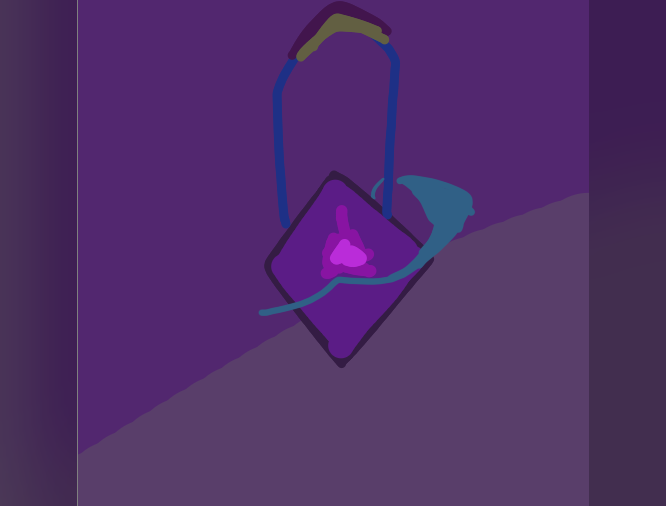
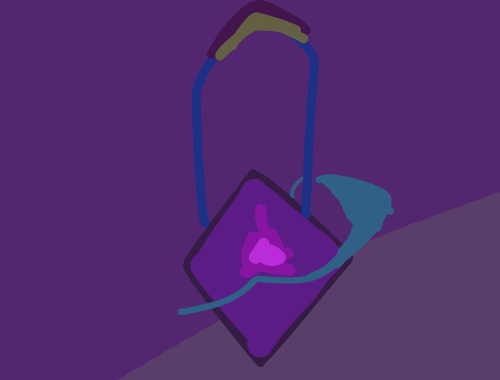
hina

diff --git a/NecroRework/src/Reworks.cs b/NecroRework/src/Reworks.cs
@@ -4,6 +4,7 @@ using MegaCrit.Sts2.Core.Combat.History.Entries;
 using MegaCrit.Sts2.Core.Commands;
 using MegaCrit.Sts2.Core.Entities.Cards;
 using MegaCrit.Sts2.Core.Entities.Creatures;
+using MegaCrit.Sts2.Core.Factories;
 using MegaCrit.Sts2.Core.GameActions.Multiplayer;
 using MegaCrit.Sts2.Core.Localization;
 using MegaCrit.Sts2.Core.Localization.DynamicVars;
@@ -124,6 +125,9 @@ internal static class Reworks
         // 钙化：奥斯提攻击加成 4（升级 6）→ 3（升级 5）；
         //       并额外记录「每次攻击给你 2（升级 3）格挡」
         [typeof(Calcify)] = _ => [new PowerVar<CalcifyPower>(3m), new BlockVar(2m, ValueProp.Unpowered)],
+
+        // 洁净：召唤 3（升级 5）→ 改成「移除 6（升级 9）层灾厄」，数值用灾厄变量显示
+        [typeof(Cleanse)] = _ => [new PowerVar<DoomPower>(6m)],
     };
 
     /// <summary>
@@ -437,6 +441,82 @@ internal static class Reworks
 
             CalcifyGuard.Add(card.Owner.Creature, card.DynamicVars.Block.BaseValue);
         },
+
+        // 洁净：移除最多 6（升级 9）层灾厄（先扣骨妹、不够再扣奥斯提），
+        //       按实际移除掉的层数获得等量格挡；之后照旧从抽牌堆消耗一张牌。
+        [typeof(Cleanse)] = async (card, ctx, play) =>
+        {
+            int budget = (int)card.DynamicVars.Doom.BaseValue;
+            int removed = 0;
+
+            int fromSelf = Math.Min(DoomUtil.PlayerDoom(card), budget);
+            if (fromSelf > 0)
+            {
+                await DoomUtil.RemoveDoom(ctx, card, card.Owner.Creature, fromSelf);
+                removed += fromSelf;
+            }
+
+            if (removed < budget && card.Owner.Osty is { IsAlive: true } osty)
+            {
+                int fromOsty = Math.Min(DoomUtil.DoomOf(osty), budget - removed);
+                if (fromOsty > 0)
+                {
+                    await DoomUtil.RemoveDoom(ctx, card, osty, fromOsty);
+                    removed += fromOsty;
+                }
+            }
+
+            if (removed > 0)
+            {
+                await CreatureCmd.GainBlock(card.Owner.Creature, removed, ValueProp.Move, play);
+            }
+
+            CardModel? picked = (await CardSelectCmd.FromCombatPile(ctx, PileType.Draw.GetPile(card.Owner), card.Owner,
+                new CardSelectorPrefs(CardSelectorPrefs.ExhaustSelectionPrompt, 1))).FirstOrDefault();
+            if (picked != null)
+            {
+                await CardCmd.Exhaust(ctx, picked);
+            }
+        },
+
+        // 虚空之唤：先照旧挂上「回合开始加牌」的能力，再从卡池里随机展示 3 张
+        // 「升级前就带虚无」的牌，选中一张置入手牌。
+        [typeof(CallOfTheVoid)] = async (card, ctx, play) =>
+        {
+            await CreatureCmd.TriggerAnim(card.Owner.Creature, "PowerUp", card.Owner.Character.PowerUpAnimDelay);
+            await PowerCmd.Apply<CallOfTheVoidPower>(ctx, card.Owner.Creature,
+                card.DynamicVars.Cards.BaseValue, card.Owner.Creature, card);
+
+            List<CardModel> ethereal = card.Owner.Character.CardPool
+                .GetUnlockedCards(card.Owner.UnlockState, card.Owner.RunState.CardMultiplayerConstraint)
+                .Where(c => c.CanonicalKeywords.Contains(CardKeyword.Ethereal))
+                .ToList();
+
+            if (ethereal.Count == 0)
+            {
+                Main.Log.Info($"[{Main.ModId}] 虚空之唤：卡池里没有虚无牌，跳过选择");
+                return;
+            }
+
+            // 按原版 Quasar/Discovery 的写法：GetDistinctForCombat 负责建牌、设 Owner、去重，
+            // 直接 ToMutable() 拿到的牌没有 Owner，选择界面会空着，玩家看不到任何选项。
+            List<CardModel> offered = CardFactory
+                .GetDistinctForCombat(card.Owner, ethereal, 3, card.Owner.RunState.Rng.CombatCardGeneration)
+                .ToList();
+
+            if (offered.Count == 0)
+            {
+                Main.Log.Info($"[{Main.ModId}] 虚空之唤：抽不出可展示的虚无牌（候选 {ethereal.Count} 张），跳过选择");
+                return;
+            }
+
+            CardModel? chosen = offered.Count == 1
+                ? offered[0]
+                : await CardSelectCmd.FromChooseACardScreen(ctx, offered, card.Owner, canSkip: true);
+            if (chosen == null) return;
+
+            CardCmd.PreviewCardPileAdd(await CardPileCmd.AddGeneratedCardToCombat(chosen, PileType.Hand, card.Owner));
+        },
     };
 
     /// <summary>
@@ -500,6 +580,9 @@ internal static class Reworks
             card.DynamicVars["CalcifyPower"].UpgradeValueBy(2m);
             card.DynamicVars.Block.UpgradeValueBy(1m);
         },
+
+        // 洁净：原版是召唤 3 → 5，现在改成灾厄 6 → 9
+        [typeof(Cleanse)] = card => card.DynamicVars.Doom.UpgradeValueBy(3m),
     };
 
     /// <summary>
@@ -533,5 +616,8 @@ internal static class Reworks
     {
         // 增生：已经没有召唤了，原版的「召唤」悬停提示要去掉
         [typeof(Spur)] = _ => [],
+
+        // 洁净：召唤改成移除灾厄，原版「召唤」悬停提示要去掉，只留「消耗」提示
+        [typeof(Cleanse)] = _ => [HoverTipFactory.FromKeyword(CardKeyword.Exhaust)],
     };
 }

diff --git a/NecroRework/src/PowerIcons.cs b/NecroRework/src/PowerIcons.cs
@@ -16,9 +16,12 @@ namespace NecroRework;
 internal static class PowerIcons
 {
     private const string DieForYouIconFile = "die_for_you_icon.png";
+    private const string DeathRhythmIconFile = "death_rhythm.png";
 
     private static Texture2D? _dieForYouIcon;
     private static bool _dieForYouIconTried;
+    private static Texture2D? _deathRhythmIcon;
+    private static bool _deathRhythmIconTried;
 
     public static void Install(Harmony harmony)
     {
@@ -98,51 +101,76 @@ internal static class PowerIcons
 
     public static void IconPostfix(object __instance, ref Texture2D __result)
     {
-        if (__instance is not DieForYouPower) return;
-
-        var icon = LoadDieForYouIcon();
-        if (icon != null)
-            __result = icon;
+        switch (__instance)
+        {
+            case DieForYouPower:
+            {
+                var icon = LoadDieForYouIcon();
+                if (icon != null) __result = icon;
+                break;
+            }
+            case DeathRhythmPower:
+            {
+                var icon = LoadCustomIcon(DeathRhythmIconFile, ref _deathRhythmIcon, ref _deathRhythmIconTried, "死亡律动");
+                if (icon != null) __result = icon;
+                break;
+            }
+        }
     }
 
     public static void BigIconPostfix(object __instance, ref Texture2D __result)
     {
-        if (__instance is not DieForYouPower) return;
-
-        var icon = LoadDieForYouIcon();
-        if (icon != null)
-            __result = icon;
+        switch (__instance)
+        {
+            case DieForYouPower:
+            {
+                var icon = LoadDieForYouIcon();
+                if (icon != null) __result = icon;
+                break;
+            }
+            case DeathRhythmPower:
+            {
+                var icon = LoadCustomIcon(DeathRhythmIconFile, ref _deathRhythmIcon, ref _deathRhythmIconTried, "死亡律动");
+                if (icon != null) __result = icon;
+                break;
+            }
+        }
     }
 
     /// <summary>懒加载 mod 目录下的自定义图标；读不到就沿用原版图标。</summary>
     private static Texture2D? LoadDieForYouIcon()
     {
-        if (_dieForYouIconTried) return _dieForYouIcon;
-        _dieForYouIconTried = true;
+        return LoadCustomIcon(DieForYouIconFile, ref _dieForYouIcon, ref _dieForYouIconTried, "为你而死");
+    }
+
+    private static Texture2D? LoadCustomIcon(string fileName, ref Texture2D? cache, ref bool tried, string what)
+    {
+        if (tried) return cache;
+        tried = true;
 
         try
         {
-            var path = Path.Combine(Main.ModDirectory, DieForYouIconFile);
+            var path = Path.Combine(Main.ModDirectory, fileName);
             if (!File.Exists(path))
             {
-                Main.Log.Warn($"[{Main.ModId}] 找不到 {path}，为你而死继续用原版图标");
+                Main.Log.Warn($"[{Main.ModId}] 找不到 {path}，{what}继续用原版图标");
                 return null;
             }
 
             var image = Image.LoadFromFile(path);
             if (image == null)
             {
-                Main.Log.Warn($"[{Main.ModId}] 读取 {path} 失败，为你而死继续用原版图标");
+                Main.Log.Warn($"[{Main.ModId}] 读取 {path} 失败，{what}继续用原版图标");
                 return null;
             }
 
-            _dieForYouIcon = ImageTexture.CreateFromImage(image);
+            cache = ImageTexture.CreateFromImage(image);
         }
         catch (Exception e)
         {
-            Main.Log.Error($"[{Main.ModId}] 加载为你而死图标失败: {e}");
+            Main.Log.Error($"[{Main.ModId}] 加载{what}图标失败: {e}");
         }
 
-        return _dieForYouIcon;
+        return cache;
     }
 }

diff --git a/NecroRework/src/Stats/OstyHpGainTracker.cs b/NecroRework/src/Stats/OstyHpGainTracker.cs
@@ -37,16 +37,30 @@ internal static class OstyHpGainTracker
             prefix: new HarmonyMethod(typeof(OstyHpGainTracker), nameof(HealPrefix)),
             postfix: new HarmonyMethod(typeof(OstyHpGainTracker), nameof(HealPostfix)));
 
-        var turnStart = AccessTools.Method(typeof(Hook), "AfterPlayerTurnStart");
+        // 注意：清零必须发生在「回合开始的各种遗物效果之前」。
+        // 起始遗物「不灭命匣」（PhylacteryUnbound）在 Hook.AfterSideTurnStart 里自动召唤，
+        // 而那个钩子早于 Hook.AfterPlayerTurnStart —— 所以旧写法（挂在 AfterPlayerTurnStart 清零）
+        // 会把遗物刚加的那几点血一起抹掉，增生就吃不到它。
+        // 改成挂 BeforeSideTurnStart（同一回合更早的位置）清零。
+        var turnStart = AccessTools.Method(typeof(Hook), "BeforeSideTurnStart",
+            [typeof(MegaCrit.Sts2.Core.Combat.ICombatState), typeof(MegaCrit.Sts2.Core.Combat.CombatSide),
+             typeof(IReadOnlyList<Creature>)]);
+
         if (turnStart == null)
         {
-            Main.Log.Warn($"[{Main.ModId}] 找不到 Hook.AfterPlayerTurnStart，奥斯提回血量不会按回合清零");
+            Main.Log.Warn($"[{Main.ModId}] 找不到 Hook.BeforeSideTurnStart，奥斯提回血量不会按回合清零");
         }
         else
         {
             harmony.Patch(turnStart,
-                postfix: new HarmonyMethod(typeof(OstyHpGainTracker), nameof(AfterPlayerTurnStartPostfix)));
+                postfix: new HarmonyMethod(typeof(OstyHpGainTracker), nameof(BeforeSideTurnStartPostfix)));
         }
+
+        // 旧写法（回合开始遗物结算之后才清零，会把自动召唤加的血抹掉），已停用：
+        // var legacyTurnStart = AccessTools.Method(typeof(Hook), "AfterPlayerTurnStart");
+        // if (legacyTurnStart != null)
+        //     harmony.Patch(legacyTurnStart,
+        //         postfix: new HarmonyMethod(typeof(OstyHpGainTracker), nameof(AfterPlayerTurnStartPostfix)));
     }
 
     /// <summary>玩家本回合内，奥斯提一共增加了多少点当前生命值。</summary>
@@ -85,6 +99,13 @@ internal static class OstyHpGainTracker
         {
             Main.Log.Error($"[{Main.ModId}] 记录奥斯提回血量失败: {e}");
         }
+    }
+
+    private static void BeforeSideTurnStartPostfix(MegaCrit.Sts2.Core.Combat.CombatSide side)
+    {
+        // 玩家回合刚开始（此时遗物/开场效果还没结算）：把上一回合的累计清掉。
+        if (side != MegaCrit.Sts2.Core.Combat.CombatSide.Player) return;
+        Gained.Clear();
     }
 
     private static void AfterPlayerTurnStartPostfix(Player player)

diff --git a/NecroRework/src/PullFromBelowRedirect.cs b/NecroRework/src/PullFromBelowRedirect.cs
@@ -73,7 +73,7 @@ internal static class PullFromBelowRedirect
 
     private static void OnPlayWrapperPostfix(CardModel __instance) => PlayingCards.Remove(__instance);
 
-    private static bool ExhaustPrefix(CardModel card, ref Task<CardPileAddResult?> __result)
+    private static bool ExhaustPrefix(CardModel card, bool causedByEthereal, ref Task<CardPileAddResult?> __result)
     {
         try
         {
@@ -83,7 +83,16 @@ internal static class PullFromBelowRedirect
             var creature = player?.Creature;
             if (creature == null || !creature.IsAlive) return true;
 
-            if (!card.Keywords.Contains(CardKeyword.Ethereal)) return true;
+            var power = creature.GetPower<PullFromBelowPower>();
+            bool ethereal = card.Keywords.Contains(CardKeyword.Ethereal);
+
+            // 身上有亡魂牵引时，把每次「消耗决议」都记下来，方便排查到底是被谁吃掉的。
+            if (power != null && power.Amount > 0)
+            {
+                Main.Log.Info($"[{Main.ModId}] 亡魂牵引：消耗决议 {card.Id} 牌堆={card.Pile?.Type.ToString() ?? "无"} 虚无={ethereal} 回合结束自烧={causedByEthereal} 正在打出={PlayingCards.Contains(card)} 剩余层数={power.Amount}");
+            }
+
+            if (!ethereal) return true;
 
             // 正在被打出的牌（手动打出 + 自身带消耗）→ 这是主动消耗，放行原版
             if (PlayingCards.Contains(card)) return true;
@@ -91,7 +100,6 @@ internal static class PullFromBelowRedirect
             var pile = card.Pile?.Type;
             if (pile != PileType.Hand && pile != PileType.Draw && pile != PileType.Discard) return true;
 
-            var power = creature.GetPower<PullFromBelowPower>();
             if (power == null || power.Amount <= 0) return true;
 
             __result = Redirect(card, power);

diff --git a/NecroRework/src/Main.cs b/NecroRework/src/Main.cs
@@ -82,6 +82,9 @@ public static class Main
         ModHelper.AddModelToPool(typeof(NecrobinderCardPool), typeof(Sublimation));
         ModHelper.AddModelToPool(typeof(NecrobinderCardPool), typeof(LifeAndDeath));
 
-        Log.Info($"[{ModId}] 已注册新卡牌 DriftTestCard / LookBack / Touch / Retrieve / Exchange / CraftSpirit / Gather / Continuation / GhostLantern / Drag / OminousPunch / Cover / Sublimation / LifeAndDeath -> NecrobinderCardPool");
+        // 透支：罕见品质技能牌
+        ModHelper.AddModelToPool(typeof(NecrobinderCardPool), typeof(Overdraft));
+
+        Log.Info($"[{ModId}] 已注册新卡牌 DriftTestCard / LookBack / Touch / Retrieve / Exchange / CraftSpirit / Gather / Continuation / GhostLantern / Drag / OminousPunch / Cover / Sublimation / LifeAndDeath / Overdraft -> NecrobinderCardPool");
     }
 }

diff --git a/NecroRework/src/CardArt.cs b/NecroRework/src/CardArt.cs
@@ -26,6 +26,7 @@ internal static class CardArt
         [typeof(CraftSpirit)] = "craft_spirit.png",
         [typeof(Continuation)] = "continuation.png",
         [typeof(GhostLantern)] = "ghost_lantern.png",
+        [typeof(Overdraft)] = "overdraft.png",
     };
 
     private static Texture2D _placeholder;

diff --git a/NecroRework/README.md b/NecroRework/README.md
@@ -1,6 +1,6 @@
 # 亡灵契约师·重制 —— 工程说明
 
-一个《杀戮尖塔2》mod 的完整源代码工程。当前版本 **v0.6.5**。
+一个《杀戮尖塔2》mod 的完整源代码工程。当前版本 **v0.67**。
 
 ---
 
@@ -142,7 +142,7 @@ Slay the Spire 2\mods\NecroRework\
 
 ---
 
-## 八、当前已改动的卡（v0.6.5）
+## 八、当前已改动的卡（v0.67）
 
 | 卡 | 改动 |
 |---|---|
@@ -216,7 +216,7 @@ Slay the Spire 2\mods\NecroRework\
   洁净／散射炮／燃烧契约这类「被别人消耗」的效果仍会被改成自动打出。
 
 
-### v0.6.5 新增
+### v0.67 新增
 
 - 新增卡牌 **冥灯 GhostLantern**：X 费、罕见品质（蓝卡）、技能牌。
   获得 4X（升级后 4X+4）点格挡；接下来的 X（升级后 X+2）个回合里，
